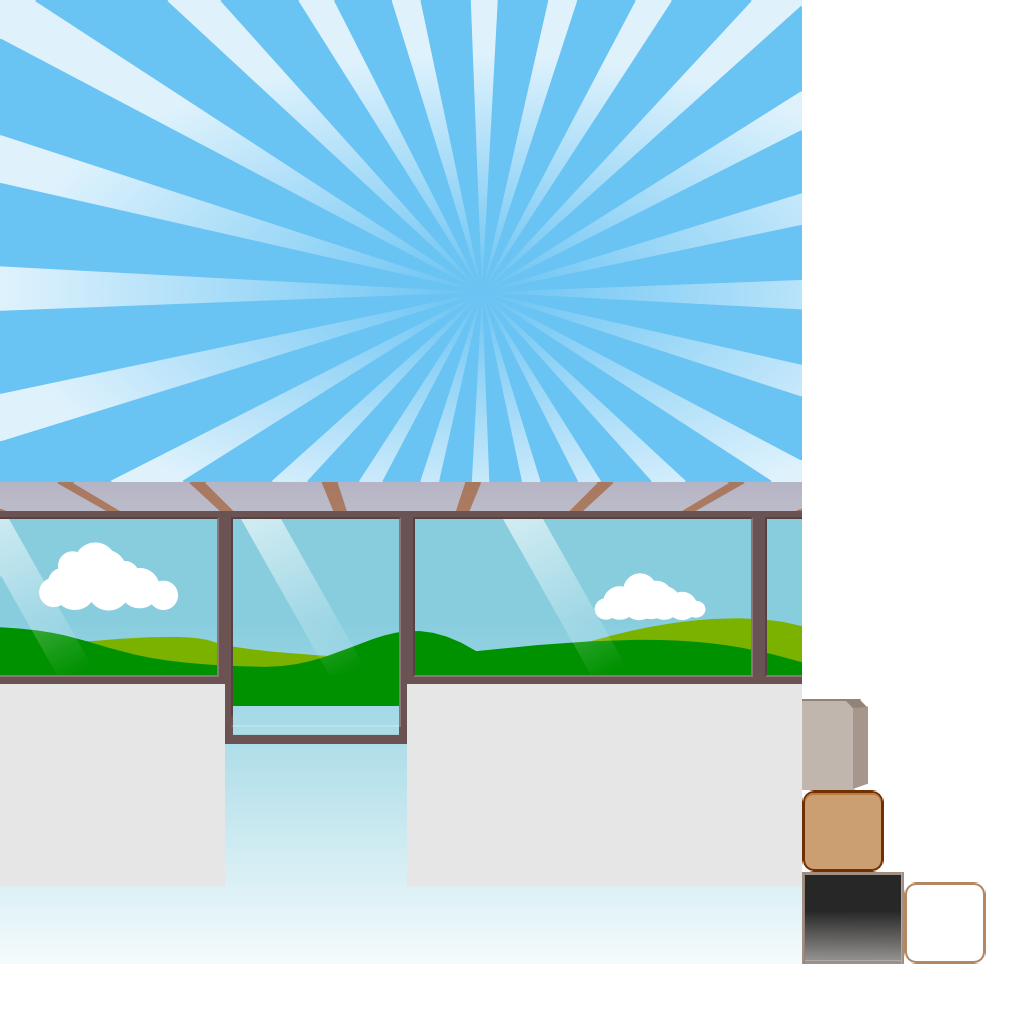
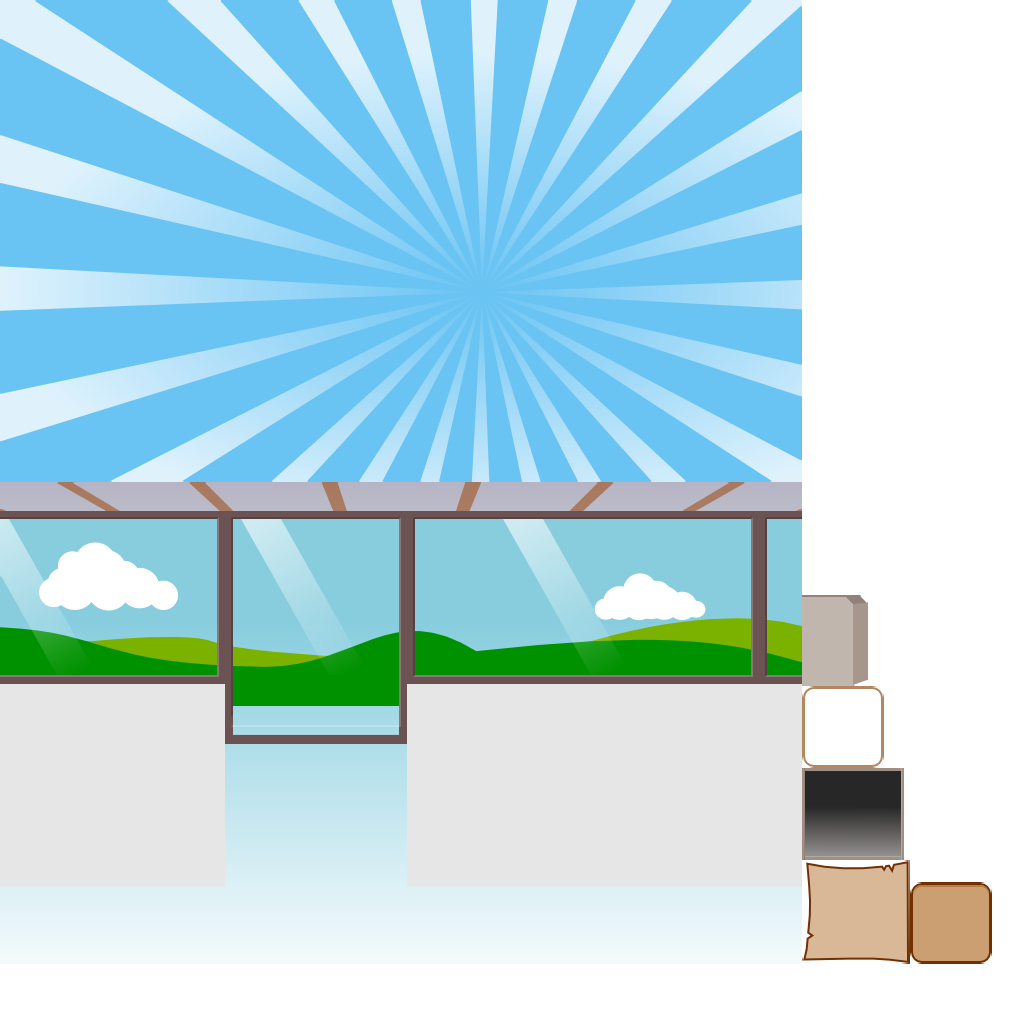
Bottom-right bar
Needs artwork for level 1

Changed region(s): [[0.7812, 0.5625, 0.9688, 0.9688]]

diff --git a/burgerparty/src/com/agateau/burgerparty/view/SandBoxGameView.java b/burgerparty/src/com/agateau/burgerparty/view/SandBoxGameView.java
@@ -18,6 +18,7 @@ import com.badlogic.gdx.Gdx;
 import com.badlogic.gdx.graphics.g2d.TextureRegion;
 import com.badlogic.gdx.math.Interpolation;
 import com.badlogic.gdx.scenes.scene2d.Actor;
+import com.badlogic.gdx.scenes.scene2d.Group;
 import com.badlogic.gdx.scenes.scene2d.actions.Actions;
 import com.badlogic.gdx.scenes.scene2d.ui.Image;
 import com.badlogic.gdx.scenes.scene2d.ui.ImageButton;
@@ -36,6 +37,7 @@ public class SandBoxGameView extends AbstractWorldView {
 
 		setupWidgets();
 		setupBottomLeftBar();
+		setupBottomRightBar();
 		setupInventory();
 		setLevelWorldIndex(0);
 		Gdx.app.postRunnable(new Runnable() {
@@ -65,21 +67,12 @@ public class SandBoxGameView extends AbstractWorldView {
 			}
 		});
 
-		ImageButton deliverButton = Kernel.createRoundButton("ui/icon-right");
-		deliverButton.addListener(new ChangeListener() {
-			public void changed(ChangeListener.ChangeEvent Event, Actor actor) {
-				deliver();
-			}
-		});
-
 		addRule(backButton, Anchor.TOP_LEFT, this, Anchor.TOP_LEFT);
 		addRule(worldButton, Anchor.CENTER_LEFT, backButton, Anchor.CENTER_RIGHT, 1, 0);
-		addRule(deliverButton, Anchor.CENTER_RIGHT, this, Anchor.CENTER_RIGHT);
 	}
 
 	private void setupBottomLeftBar() {
 		mSwitchInventoriesButton = Kernel.createHudButton("ui/inventory-burger");
-		mSwitchInventoriesButton.setSize(80, 80);
 		mSwitchInventoriesButton.addListener(new ChangeListener() {
 			public void changed(ChangeListener.ChangeEvent Event, Actor actor) {
 				switchInventories();
@@ -87,7 +80,6 @@ public class SandBoxGameView extends AbstractWorldView {
 		});
 
 		mUndoButton = Kernel.createHudButton("ui/undo");
-		mUndoButton.setSize(80, 80);
 		mUndoButton.addListener(new ChangeListener() {
 			public void changed(ChangeListener.ChangeEvent Event, Actor actor) {
 				undo();
@@ -99,6 +91,20 @@ public class SandBoxGameView extends AbstractWorldView {
 		mBottomLeftBar.addActor(mUndoButton);
 
 		addRule(mBottomLeftBar, Anchor.BOTTOM_LEFT, mInventoryView, Anchor.TOP_LEFT);
+	}
+
+	private void setupBottomRightBar() {
+		mDeliverButton = Kernel.createRoundButton("ui/done");
+		mDeliverButton.addListener(new ChangeListener() {
+			public void changed(ChangeListener.ChangeEvent Event, Actor actor) {
+				deliver();
+			}
+		});
+
+		mBottomRightBar.addActor(mBottomRightBgImage);
+		mBottomRightBar.addActor(mDeliverButton);
+
+		addRule(mBottomRightBar, Anchor.BOTTOM_RIGHT, mInventoryView, Anchor.TOP_RIGHT);
 	}
 
 	private void setupInventory() {
@@ -205,6 +211,19 @@ public class SandBoxGameView extends AbstractWorldView {
 
 		initButton(mUndoButton, dirName, blConfig.getChildByName("undoButton"));
 		initButton(mSwitchInventoriesButton, dirName, blConfig.getChildByName("switchInventoriesButton"));
+
+		// Bottom right button bar
+		XmlReader.Element brConfig = config.getChildByName("bottomRightButtonBar");
+		assert(brConfig != null);
+
+		region = Kernel.getTextureAtlas().findRegion(dirName + "bottom-right-button-bar");
+		mBottomRightBgImage.setDrawable(new TextureRegionDrawable(region));
+		mBottomRightBgImage.setBounds(
+			brConfig.getFloatAttribute("x", 0),
+			brConfig.getFloatAttribute("y", 0),
+			region.getRegionWidth(), region.getRegionHeight());
+		mBottomRightBar.setSize(region.getRegionWidth(), region.getRegionHeight());
+		initButton(mDeliverButton, dirName, brConfig.getChildByName("deliverButton"));
 	}
 
 	private void initButton(ImageButton button, String dirName, XmlReader.Element config) {
@@ -212,7 +231,10 @@ public class SandBoxGameView extends AbstractWorldView {
 		ImageButton.ImageButtonStyle style = button.getStyle();
 		style.up = Kernel.getSkin().getDrawable(dirName + "button");
 		style.down = Kernel.getSkin().getDrawable(dirName + "button-down");
-		button.setPosition(config.getFloatAttribute("x"), config.getFloatAttribute("y"));
+		button.setBounds(
+			config.getFloatAttribute("x"),
+			config.getFloatAttribute("y"),
+			80, 80);
 	}
 
 	private void onAddItem(MealItem item) {
@@ -257,8 +279,12 @@ public class SandBoxGameView extends AbstractWorldView {
 	private final BurgerPartyGame mGame;
 	private final BurgerPartyScreen mScreen;
 
-	Image mBottomLeftBgImage = new Image();
 	AnchorGroup mBottomLeftBar = new AnchorGroup();
+	Image mBottomLeftBgImage = new Image();
 	ImageButton mSwitchInventoriesButton;
 	ImageButton mUndoButton;
+
+	Group mBottomRightBar = new Group();
+	Image mBottomRightBgImage = new Image();
+	ImageButton mDeliverButton;
 }
